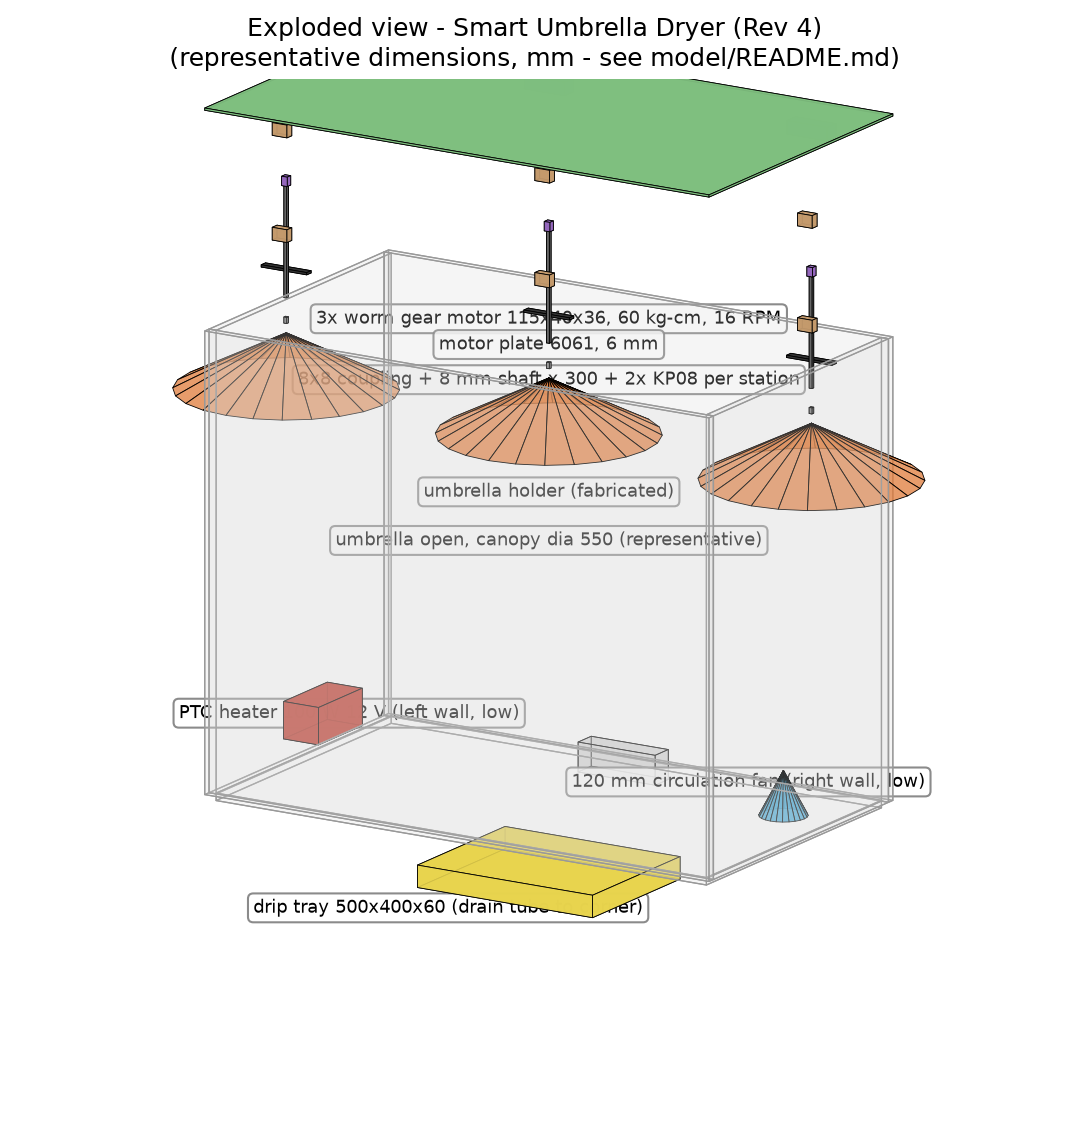
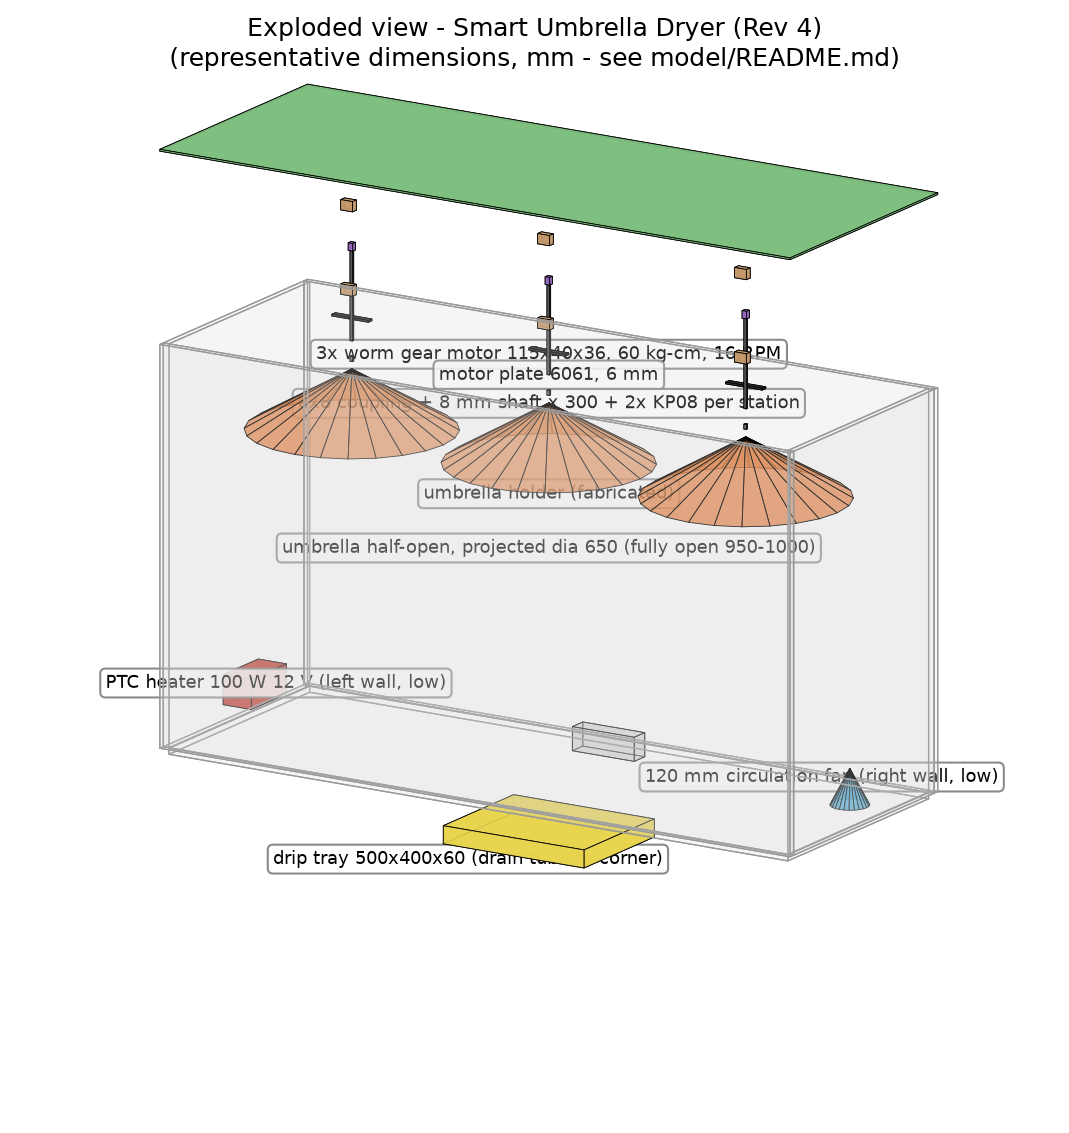
Rescale 3D model to the decided real chamber box
Geometry review found the old 1400 mm chamber could not hold three
canopies (325 mm overflow). Decided layout: umbrellas dry half-open
(projected 650 mm), three stations in a row at 700 mm pitch inside a
2200 x 800 x 1300 mm internal chamber. All clearance checks now pass
(75 mm at walls, 50 mm between canopies); six views regenerated and
HARDWARE.md layout section updated from "pending" to the decision.

🤖 Generated with Codebuff

Changed region(s): [[0.0926, 0.0618, 0.957, 0.8341]]

diff --git a/model/generate_models.py b/model/generate_models.py
@@ -17,15 +17,15 @@ import matplotlib.pyplot as plt
 from mpl_toolkits.mplot3d.art3d import Poly3DCollection
 
 # ------------------------- CONSTANTS (mm) -------------------------
-CH_W, CH_D, CH_H = 1400.0, 800.0, 1200.0   # chamber internal W(x) D(y) H(z)
+CH_W, CH_D, CH_H = 2200.0, 800.0, 1300.0   # chamber internal W(x) D(y) H(z) - REAL chamber box
 WALL = 20.0
 PLATE_T = 6.0                                # 6061 aluminum motor plate
-PITCH = 750.0                                # station spacing along X
+PITCH = 700.0                                # station spacing along X (real: 3-station row)
 MOTOR_L, MOTOR_W, MOTOR_H = 115.0, 40.0, 36.0
 SHAFT_DIA, SHAFT_LEN = 8.0, 300.0
 COUP_L = 25.0
 KP08 = (42.0, 22.0, 34.0)                    # bracket approx
-CANOPY_D, CANOPY_DEPTH = 550.0, 150.0        # umbrella open (representative)
+CANOPY_D, CANOPY_DEPTH = 650.0, 200.0        # umbrella HALF-OPEN projected (fully open is 950-1000)
 TRAY = (500.0, 400.0, 60.0)
 HEATER = (200.0, 100.0, 100.0)
 FAN_D = 120.0
@@ -186,7 +186,7 @@ labels = [
     (0, 0, CH_H + PLATE_T/2 + 25, "motor plate 6061, 6 mm"),
     (ST_X[1], 0, PLATE_Z - 60, "8x8 coupling + 8 mm shaft x 300 + 2x KP08 per station"),
     (ST_X[1], 0, PLATE_Z - SHAFT_LEN - 60, "umbrella holder (fabricated)"),
-    (ST_X[1], 0, PLATE_Z - SHAFT_LEN - CANOPY_DEPTH - 40, "umbrella open, canopy dia 550 (representative)"),
+    (ST_X[1], 0, PLATE_Z - SHAFT_LEN - CANOPY_DEPTH - 40, "umbrella half-open, projected dia 650 (fully open 950-1000)"),
     (-CH_W/2 + 130, 0, 150, "PTC heater 100 W 12 V (left wall, low)"),
     (CH_W/2 - 130, 0, 150, "120 mm circulation fan (right wall, low)"),
     (0, -CH_D/2 - 60, -160, "drip tray 500x400x60 (drain tube to corner)"),
@@ -199,10 +199,10 @@ save(fig, "exploded-view.png")
 # 2. front view (looking -Y)
 view("front-view.png", 0, -90, "Front view",
     dimlines=[
-        ((-W2, 0, -120), (W2, 0, -120), "1400 chamber W", (0, 0, -45)),
-        ((-W2-70, 0, 0), (-W2-70, 0, CH_H), "1200 H", (0, 0, 0)),
-        ((ST_X[0], 0, CH_H + PLATE_T + MOTOR_H + 95), (ST_X[1], 0, CH_H + PLATE_T + MOTOR_H + 95), "750 pitch", (0, 0, 35)),
-        ((ST_X[1]-275, 0, 640), (ST_X[1]+275, 0, 640), "canopy 550 dia", (0, 0, -40)),
+        ((-W2, 0, -120), (W2, 0, -120), "2200 chamber W", (0, 0, -45)),
+        ((-W2-70, 0, 0), (-W2-70, 0, CH_H), "1300 H", (0, 0, 0)),
+        ((ST_X[0], 0, CH_H + PLATE_T + MOTOR_H + 95), (ST_X[1], 0, CH_H + PLATE_T + MOTOR_H + 95), "700 pitch", (0, 0, 35)),
+        ((ST_X[1]-325, 0, 640), (ST_X[1]+325, 0, 640), "canopy 650 dia half-open", (0, 0, -40)),
         ((ST_X[1], 0, PLATE_Z - 40), (ST_X[1], 0, PLATE_Z - 40 - SHAFT_LEN), "shaft 300, dia 8", (95, 0, 0)),
     ],
     notes="front view (-Y)\nplate t=6 | coupling 8x8\nmin canopy clearance 50")
@@ -211,7 +211,7 @@ view("front-view.png", 0, -90, "Front view",
 view("side-view.png", 0, 0, "Side view",
     dimlines=[
         ((0, -CH_D/2, -120), (0, CH_D/2, -120), "800 D", (0, 0, -45)),
-        ((0, -CH_D/2-70, 0), (0, -CH_D/2-70, CH_H), "1200 H", (0, 0, 0)),
+        ((0, -CH_D/2-70, 0), (0, -CH_D/2-70, CH_H), "1300 H", (0, 0, 0)),
         ((0, 0, 150), (0, 0, 150), "", (0, 0, 0)),
     ],
     notes="side view (-X)\nfloor slope 3-5 deg to drain corner\ndrain tube dia 8 | tray 500x400x60\nheater 200x100 left wall | fan dia 120 right wall\nDHT22 mid-chamber | DS18B20 in heater stream")
@@ -221,14 +221,14 @@ view("top-view.png", 90, -90, "Top view (plan)",
     dimlines=[
         ((-W2, -CH_D/2, CH_H + 160), (W2, -CH_D/2, CH_H + 160), "1400 W", (0, 0, 45)),
         ((W2 + 70, -CH_D/2, CH_H + 60), (W2 + 70, CH_D/2, CH_H + 60), "800 D", (60, 0, 0)),
-        ((ST_X[0], -60, CH_H + 60), (ST_X[1], -60, CH_H + 60), "750", (0, -80, 0)),
+        ((ST_X[0], -60, CH_H + 60), (ST_X[1], -60, CH_H + 60), "700", (0, -80, 0)),
     ],
-    notes="top view\nstations on X axis, pitch 750\ncanopy dia 550 dashed = swing envelope\nplate outline dashed")
+    notes="top view\nstations on X axis, pitch 700\ncanopy dia 650 half-open, dashed = swing envelope\nplate outline dashed")
 
 # 5-6. front-right / front-left
 view("front-right-view.png", 14, -55, "Front-right view",
-    notes="axonometric\nkey dims: chamber 1400x800x1200\npitch 750 | canopy dia 550\nshaft 8x300 | plate 6 mm\nall mm, representative")
+    notes="axonometric\nkey dims: chamber 2200x800x1300 (real box)\npitch 700 | canopy dia 650 half-open\nshaft 8x300 | plate 6 mm\nall mm")
 view("front-left-view.png", 14, -125, "Front-left view",
-    notes="axonometric\nkey dims: chamber 1400x800x1200\npitch 750 | canopy dia 550\nshaft 8x300 | plate 6 mm\nall mm, representative")
+    notes="axonometric\nkey dims: chamber 2200x800x1300 (real box)\npitch 700 | canopy dia 650 half-open\nshaft 8x300 | plate 6 mm\nall mm")
 
 print("done - 6 views written")

diff --git a/docs/HARDWARE.md b/docs/HARDWARE.md
@@ -85,18 +85,18 @@ Spec sheets for what was actually bought (sources & prices: `docs/BOM.md` §14).
 | Condensate zone | No bare copper below 5 cm above the floor; silicone-sealed seams; drain tube 6–8 mm ID |
 | Environment | All-12V extra-low voltage; keep every connector ≥ 5 cm from the heater body |
 
-## 3. Station layout — design targets (team decision pending)
+## 3. Station layout — decided (Rev 4)
 
-The chamber geometry was not fixed in the paper's Rev 2. Constraints from the verified design:
-
-| Constraint | Value |
+| Parameter | Decision |
 |---|---|
-| Open canopy Ø | ≈ 0.9–1.0 m (commuter/golf umbrella) |
-| Tip clearance | ≥ 5 cm between canopies and to walls |
-| Hanging length | Umbrella hangs from holder; heater blows across the canopy underside |
-| Layout options | **A) Staggered row:** stations offset horizontally + vertically (pitch ≈ 0.75 m) — compact chamber. **B) Triangular:** two front, one rear, height-offset — fits a square floor. Both satisfy the clearance rule; pick per chamber box availability |
+| Canopy state when drying | **Half-open** — projected Ø ≈ 650 mm. A fully-open commuter canopy spans 950–1000 mm, and three in a row would need a ~3.2 m chamber; half-open exposes the full wet surface with airflow across it and keeps the box realistic |
+| Chamber internal W × D × H | **2200 × 800 × 1300 mm** (walls +20 mm → cut panels 2240 × 840 × 1340) |
+| Station layout | Single row of 3 stations on the long axis, pitch **700 mm** |
+| Clearance check | Canopy edge at 700 + 325 = 1025 mm from center vs wall at 1100 mm → 75 mm each side; between adjacent canopies 700 − 650 = 50 mm — both pass the ≥50 mm rule |
+| Hanging length | Umbrella hangs from the holder; heater blows across the canopy underside |
+| Services | Heater 200×100 left wall, low (center 150 mm above floor); 120 mm fan right wall, low; DHT22 mid-chamber; DS18B20 probe in the heater air stream |
 
-> The verification math (`docs/BOM.md` §9) is layout-independent: each motor sees only its own umbrella's ≤3 kg·cm, and airflow crosses all stations regardless of arrangement.
+> The verification math (`docs/BOM.md` §9) is layout-independent: each motor sees only its own umbrella's ≤3 kg·cm, and airflow crosses all stations regardless of arrangement. If the team later prefers fully-open canopies, re-run the width check in `model/generate_models.py` before committing to a box size.
 
 ## 4. Revision history of the hardware set
 

diff --git a/model/README.md b/model/README.md
@@ -1,6 +1,6 @@
 # 3D Model Views (Rev 4)
 
-Engineering-style views of the drying chamber and its three motor stations, with measurements in millimeters. These are representative reference views for the build and the capstone paper — the paper does not fix chamber dimensions, so the sizes below are design targets that satisfy the verified clearances in `HARDWARE.md` section 3.
+Engineering-style views of the drying chamber and its three motor stations, with measurements in millimeters. These match the decided Rev 4 chamber (see `HARDWARE.md` section 3): umbrellas dry **half-open** (projected diameter 650 mm), three stations in a row inside a 2200 x 800 x 1300 mm internal chamber — the smallest realistic box that keeps the 50 mm canopy clearance rule.
 
 ## Files
 
@@ -13,20 +13,20 @@ Engineering-style views of the drying chamber and its three motor stations, with
 | `front-right-view.png` | Axonometric from front-right |
 | `front-left-view.png` | Axonometric from front-left |
 
-## Dimension table (all mm, representative — adjust to your chamber)
+## Dimension table (all mm, decided Rev 4 — change only with a re-run of the clearance check)
 
 | Parameter | Value | Notes |
 |---|---|---|
-| Chamber internal W x D x H | 1400 x 800 x 1200 | Fits 3 open canopies with clearance |
+| Chamber internal W x D x H | 2200 x 800 x 1300 | Real chamber box; cut wall panels 2240 x 840 x 1340 (20 mm walls) |
 | Wall thickness | 20 | Panel material allowance |
-| Station pitch (X) | 750 | 3 stations, equally spaced |
+| Station pitch (X) | 700 | 3 stations, single row on the long axis |
 | Motor (worm gear) | 115 x 40 x 36 | SGM-A58SW31ZY, 60 kg-cm, 16 RPM |
 | Motor plate (6061) | 6 thick | Spans chamber top |
 | Shaft | 8 dia x 300 long | 304 SS, ground |
 | Coupling | 8 x 8, 25 long | Rigid clamp |
 | Bearings | 2x KP08 per station | Near each shaft end |
-| Canopy (open) | 550 dia x 150 deep | Representative commuter umbrella |
-| Min canopy clearance | 50 | Between canopies and to walls |
+| Canopy (half-open, projected) | 650 dia x 200 deep | Umbrellas dry half-open; fully-open commuter canopy is 950-1000 dia |
+| Min canopy clearance | 50 (75 at walls, 50 between canopies) | Verified against the 2200 box |
 | Floor slope | 3-5 degrees | To drain corner |
 | Drain tube | 8 dia | Silicone, to drip tray |
 | Drip tray | 500 x 400 x 60 | 500 mL+ capacity |
